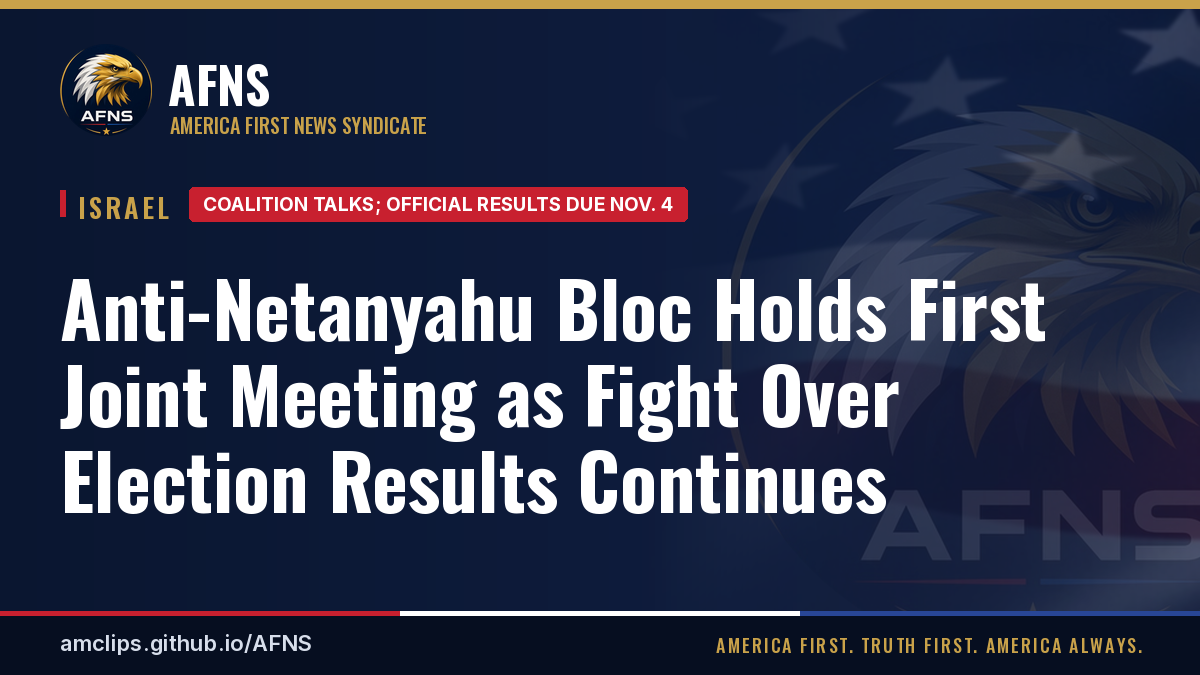
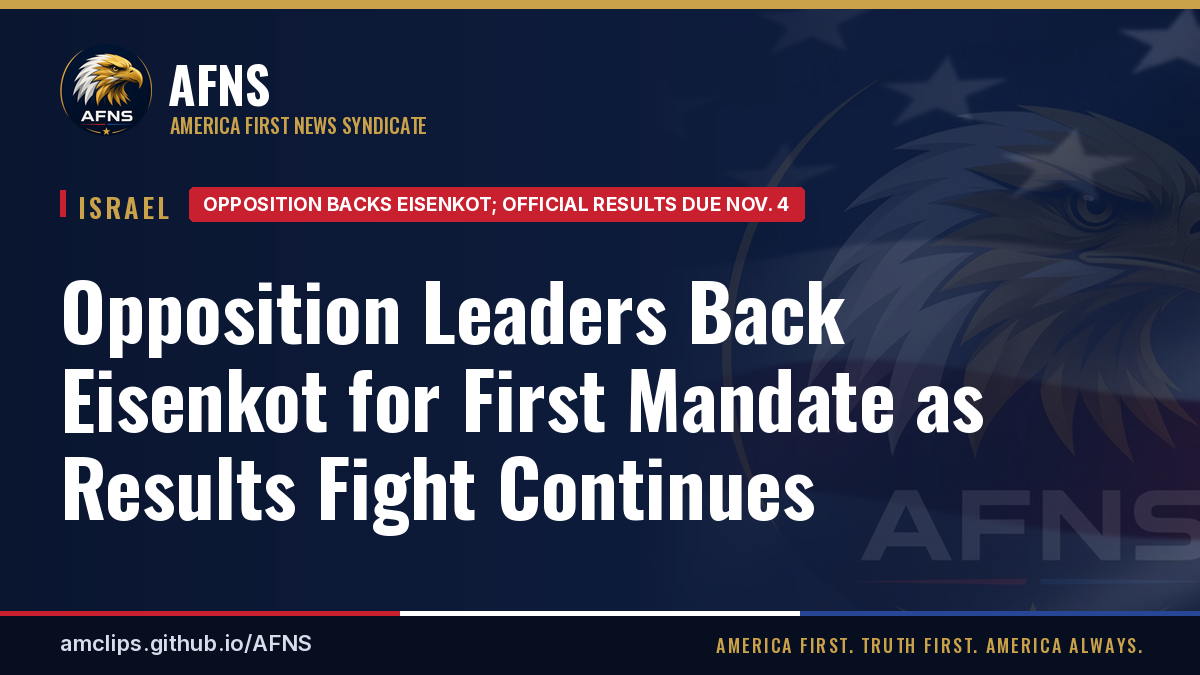
Nov 3 11 AM Israel update: Eisenkot backing, Rafah closure, aid update (#27)
Apply the nov03d content package on top of 72240e1: new Rafah crossing
story, Eisenkot first-mandate update, and the weapons-sales note on the
Trump aid report, plus the matching credit and share cards.

Changed region(s): [[0.0308, 0.4044, 0.8942, 0.8089], [0.185, 0.28, 0.6783, 0.3422]]

diff --git a/content/israel/anti-netanyahu-bloc-first-joint-meeting-herzliya-results-fight.md b/content/israel/anti-netanyahu-bloc-first-joint-meeting-herzliya-results-fight.md
@@ -1,27 +1,45 @@
 ---
-title: "Anti-Netanyahu Bloc Holds First Joint Meeting as Fight Over Election Results Continues"
+title: "Opposition Leaders Back Eisenkot for First Mandate as Results Fight Continues"
 desk: israel
 date: 2026-11-03
-summary: "Eisenkot, Bennett, Lapid, Liberman and Golan met in Herzliya ahead of President Herzog's consultations. They are united on replacing Netanyahu but split over the Arab parties. The election committee chief rejected Likud's demand for a briefing on suspected interference. The final count stands at Netanyahu bloc 53, Eisenkot bloc 48, Arab parties 19."
+summary: "Updated Nov. 3, 11 AM CT: Opposition leaders agreed to recommend Eisenkot to President Herzog for the first mandate to form a \"national emergency\" government, the Jerusalem Post reports. Their bloc has 48 seats without the Arab parties' 19, so a majority would depend on Arab party support or defections. Earlier: Eisenkot, Bennett, Lapid, Liberman and Golan met in Herzliya ahead of President Herzog's consultations. They are united on replacing Netanyahu but split over the Arab parties. The election committee chief rejected Likud's demand for a briefing on suspected interference. The final count stands at Netanyahu bloc 53, Eisenkot bloc 48, Arab parties 19."
 image: "img/stories/anti-netanyahu-bloc-first-joint-meeting-herzliya-results-fight.jpg"
 image_alt: "Aerial view of the Knesset building in Jerusalem (file image, 1995)"
 image_credit: "Tsvika Israeli, Government Press Office / Wikimedia Commons"
 image_source_url: "https://commons.wikimedia.org/wiki/File%3AFlickr_-_Government_Press_Office_%28GPO%29_-_The_Knesset_Building_in_Jerusalem.jpg"
 image_license: "CC BY-SA 3.0"
-status: "Coalition talks; official results due Nov. 4"
+status: "Opposition backs Eisenkot; official results due Nov. 4"
 key_points:
+  - UPDATE NOV. 3, 11 AM CT - Leaders of Yesh Atid, B'Yachad, Yisrael Beytenu, the Democrats and Yashar agreed to recommend Eisenkot to Herzog for the first mandate to form a "national emergency" government (Jerusalem Post)
+  - Negotiating teams are starting coalition talks; the new Knesset is sworn in Nov. 10 (Jerusalem Post)
+  - Fact check - the final count gives the opposition bloc 48 seats without the Arab parties' 19, so a claimed majority would depend on Arab party support or defections
   - Final count reconfirmed - Netanyahu bloc 53, Eisenkot bloc 48, Arab parties 19 (Likud 27, Yashar 21, B'Yachad 12)
   - Eisenkot, Bennett, Lapid, Liberman and Golan held their first joint meeting, in Herzliya, ahead of Herzog's consultations (Ynet, Jerusalem Post)
   - They are united on replacing Netanyahu and want to oust Knesset Speaker Ohana, but split over the Arab parties; Liberman is pushing for a coalition without them
   - The election committee chief rejected Likud's demand for a briefing on suspected interference; police sources found no evidence of widespread fraud (Jerusalem Post)
   - Israel asked Beirut via mediators to deploy troops so Hezbollah stays out if war with Iran resumes (Kan, citing a security source, via Times of Israel)
 sources:
+  - Jerusalem Post: Eisenkot, Israeli opposition vow to form emergency government | https://www.jpost.com/israel-election-2026/article-913678
+  - Al Jazeera: Israel's opposition leaders back Eisenkot to oust Netanyahu | https://www.aljazeera.com/news/2026/11/3/israeli-opposition-leaders-back-eisenkot-to-oust-netanyahu
+  - X story summary: Opposition unites behind Eisenkot | https://x.com/i/trending/2117648661442097645
   - Ynet: Anti-Netanyahu bloc meets in Herzliya | https://www.ynetnews.com/article/h1n0nndtme
   - Jerusalem Post live updates, Nov. 3 | https://www.jpost.com/israel-news/2026-11-03/live-updates-913649
   - Jerusalem Post: Israel election 2026 | https://www.jpost.com/israel-election-2026/article-913688
   - Times of Israel live blog, Nov. 3 | https://www.timesofisrael.com/liveblog-november-03-2026/
   - Al Jazeera: Palestine weekly, West Bank sieges and Gaza | https://www.aljazeera.com/news/2026/11/3/palestine-weekly-election-deadlock-meets-west-bank-sieges-gaza-killings
 ---
+
+## Update, Nov. 3, 11 AM CT
+
+**Opposition backs Eisenkot.** Leaders of Yesh Atid, B'Yachad, Yisrael Beytenu, the Democrats and Yashar met in Herzliya and agreed that all five parties will recommend Gadi Eisenkot to President Herzog for the first mandate to form a government. In a joint statement, they said they would act immediately to replace the "Oct. 7 government" with a "national emergency government" ([Jerusalem Post](https://www.jpost.com/israel-election-2026/article-913678), [Al Jazeera](https://www.aljazeera.com/news/2026/11/3/israeli-opposition-leaders-back-eisenkot-to-oust-netanyahu); first flagged in an [X story summary](https://x.com/i/trending/2117648661442097645)).
+
+**Next steps.** The parties' negotiating teams are starting to draft coalition agreements and policy guidelines. Consultations at the President's Residence begin Wednesday, and the new Knesset is sworn in on Nov. 10 ([Jerusalem Post](https://www.jpost.com/israel-election-2026/article-913678)).
+
+**The math.** The leaders' statement speaks of a "clear parliamentary majority." The final count gives their bloc 48 seats, short of the 61 needed, without the Arab parties' 19. A majority would therefore depend on Arab party support or defections. The statement did not say how they would reach 61 ([Al Jazeera](https://www.aljazeera.com/news/2026/11/3/israeli-opposition-leaders-back-eisenkot-to-oust-netanyahu)). This follows this morning's reporting, below, that the bloc was split over the Arab parties.
+
+**Also today:** [Report: Israel Fully Closes Rafah Crossing Into Gaza, Halting Aid and Goods](/israel/report-israel-fully-closes-rafah-crossing-gaza-aid-goods/)
+
+**The earlier Nov. 3 report follows.**
 
 **Final count (reconfirmed):** Netanyahu bloc 53, Eisenkot bloc 48, Arab parties 19. Likud has 27 seats, Yashar 21 and B'Yachad 12. Official results go to President Isaac Herzog on Wednesday, Nov. 4.
 

diff --git a/content/israel/report-israel-fully-closes-rafah-crossing-gaza-aid-goods.md b/content/israel/report-israel-fully-closes-rafah-crossing-gaza-aid-goods.md
@@ -1,0 +1,49 @@
+---
+title: "Report: Israel Fully Closes Rafah Crossing Into Gaza, Halting Aid and Goods"
+desk: israel
+date: 2026-11-03
+summary: "Israel has fully closed the Rafah crossing between Egypt and Gaza, halting aid, commercial goods, fuel and cooking gas, according to an X story summary. The summary says the route normally carries 50 to 60 trucks a day, nearly half of Gaza's supply; Gaza's crossings authority, as reported by Xinhua, put the figure at about 40 trucks a day. Israeli military sources cited smuggling and interference by Hamas security forces, per Kan via Xinhua. Aid groups warn of worsening hunger. Awaiting confirmation from a major outlet."
+image: "img/stories/report-israel-fully-closes-rafah-crossing-gaza-aid-goods.jpg"
+image_alt: "The Palestinian Authority seal on a glass door at the Rafah crossing terminal (file image, 2012)"
+image_credit: "Gigi Ibrahim / Wikimedia Commons"
+image_source_url: "https://commons.wikimedia.org/wiki/File%3ARafah_Border_Crossing.jpg"
+image_license: "CC BY 2.0"
+status: "Reported; awaiting outlet confirmation"
+key_points:
+  - The closure was ordered Monday evening and halts aid, commercial goods, fuel and cooking gas, according to an X story summary (awaiting outlet confirmation)
+  - The X summary says Rafah normally carries 50 to 60 trucks a day, nearly half of Gaza's supply; Gaza's crossings authority told Xinhua about 40 aid and commercial trucks had been entering daily from Egypt
+  - Israeli military sources told Kan the army closed the crossing over alleged smuggling and what they described as interference by Hamas security forces (as reported by Xinhua)
+  - According to the same sources, the decision does not affect the Kerem Shalom crossing
+  - Aid groups warn of worsening hunger, according to the X story summary
+sources:
+  - X story summary: Israel fully closes the Rafah crossing | https://x.com/i/trending/2117621513444814944
+  - Xinhua: Israel closes Rafah crossing to travelers, aid, commercial trucks | https://english.news.cn/20261104/9523e31d6f734063a4fbad6886d2bb9f/c.html
+---
+
+**Status: Reported; awaiting outlet confirmation.** The main account comes from an X story summary. Xinhua, citing Israel's Kan public broadcaster and Gaza's crossings authority, reported the closure separately. We have not yet found a report from the Times of Israel, the Jerusalem Post, Ynet, Haaretz, AP, Reuters or Fox News. No official Israeli statement is cited.
+
+## The closure
+
+Israel has fully closed the Rafah crossing between Egypt and Gaza, according to an X story summary ([X](https://x.com/i/trending/2117621513444814944)). The summary says the closure was ordered Monday evening and halts aid, commercial goods, fuel and cooking gas.
+
+Xinhua reports that on Tuesday Israeli authorities turned back travelers at Rafah and halted aid and commercial trucks from Egypt. It cites Kan as saying the suspension covers aid from the Egyptian committee, the U.N. and international organizations, as well as commercial shipments including fuel, gas and food ([Xinhua](https://english.news.cn/20261104/9523e31d6f734063a4fbad6886d2bb9f/c.html)).
+
+## How much goes through Rafah
+
+The figures differ by source:
+
+- The X story summary says Rafah normally carries 50 to 60 trucks a day, nearly half of Gaza's supply.
+- Gaza's crossings authority, as reported by Xinhua, said about 40 trucks of aid and commercial goods had been entering daily from Egypt.
+
+## Israel's stated reasons
+
+Israeli military sources told Kan that the army closed the crossing over alleged smuggling and what they described as interference by Hamas security forces in Gaza (as reported by Xinhua). The X summary describes the reasons as smuggling and interference by Gaza bodies. The same military sources said the decision does not affect the Kerem Shalom crossing.
+
+## Aid groups' warnings
+
+Aid groups warn that the closure will worsen hunger in Gaza, according to the X story summary. Xinhua reported no immediate comment from Hamas.
+
+## Related
+
+- [Opposition Leaders Back Eisenkot for First Mandate as Results Fight Continues](/israel/anti-netanyahu-bloc-first-joint-meeting-herzliya-results-fight/)
+- [Report: Trump Says U.S. Military Aid to Israel Will End This Year](/israel/report-trump-says-us-military-aid-israel-will-end-this-year/)

diff --git a/content/israel/report-trump-says-us-military-aid-israel-will-end-this-year.md b/content/israel/report-trump-says-us-military-aid-israel-will-end-this-year.md
@@ -11,14 +11,23 @@ image_source_url: "https://commons.wikimedia.org/wiki/File%3AAmerican_and_Israel
 image_license: "CC BY 2.0"
 status: "Reported by Haaretz; no response from Netanyahu's office"
 key_points:
+  - UPDATE NOV. 3, 11 AM CT - Trump told Fox News that Israel can still buy U.S. weapons as direct military aid ends - "They can buy whatever they want" (Fox News, AP)
   - Haaretz reports Trump said the roughly $4 billion a year in direct U.S. military aid to Israel will end by the end of this year
   - According to Haaretz, Trump said he and Netanyahu agreed to it, saying "he's very understanding of it"
   - Netanyahu's office had not responded as of Haaretz's report
   - Viral posts claiming the U.S. will end ALL assistance to Israel are not backed by the reporting, which concerns direct military aid
 sources:
+  - Fox News: Trump says Israel will stop receiving $4B in U.S. aid by year's end, can still buy weapons | https://www.foxnews.com/politics/trump-says-israel-stop-receiving-4b-us-aid-years-end-can-still-buy-weapons
+  - AP: Trump says U.S. will halt $4 billion in aid to Israel | https://apnews.com/article/trump-israel-military-aid-hardware-5cad93330300b2d45a9665d5eccb2ab2
   - Haaretz on X: Trump says U.S. military aid to Israel will end | https://x.com/haaretzcom/status/2117620728065675490
   - Real America's Voice on X: Trump on aid to Israel | https://x.com/RealAmVoice/status/2117616998301467092
 ---
+
+## Update, Nov. 3, 11 AM CT
+
+**Weapons sales to continue.** Trump told Fox News on Tuesday that Israel will still be able to buy U.S. weapons even as the roughly $4 billion a year in direct aid ends. "They can buy whatever they want," he said ([Fox News](https://www.foxnews.com/politics/trump-says-israel-stop-receiving-4b-us-aid-years-end-can-still-buy-weapons)). AP reports Trump said the U.S. will stop the aid in 2027 but will sell arms to Israel ([AP](https://apnews.com/article/trump-israel-military-aid-hardware-5cad93330300b2d45a9665d5eccb2ab2)).
+
+**The original report follows.**
 
 **Status: Reported by Haaretz; no response from Netanyahu's office.** This story rests on Haaretz's report, as posted on X. AFNS has not seen an official U.S. or Israeli statement confirming the details.
 
@@ -37,4 +46,4 @@ Viral posts claim the U.S. will end **all** assistance to Israel. The reporting 
 ## Related
 
 - [U.S. Officials: Limited 'Defensive' Strikes Hit Iranian Missiles on Qeshm Island](/israel/report-us-strikes-iranian-missile-launcher-qeshm-island/)
-- [Anti-Netanyahu Bloc Holds First Joint Meeting as Fight Over Election Results Continues](/israel/anti-netanyahu-bloc-first-joint-meeting-herzliya-results-fight/)
+- [Opposition Leaders Back Eisenkot for First Mandate as Results Fight Continues](/israel/anti-netanyahu-bloc-first-joint-meeting-herzliya-results-fight/)
